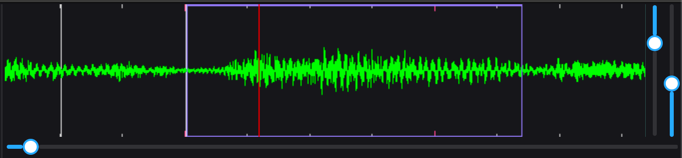
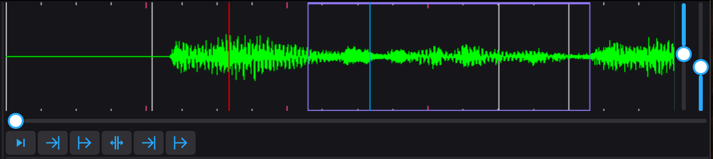
Update UI Help with new Audio Area

Changed region(s): [[0.0, 0.0, 1.0, 1.0]]

diff --git a/Ameko/Assets/Help/en-US/user-interface.md b/Ameko/Assets/Help/en-US/user-interface.md
@@ -118,17 +118,26 @@ Right-click on the video to open the context menu.
 
 ![](../assets/audio-area.png)
 
-The audio area displays an audio visualization, keyframes, and event start/end times. The visualization does not scroll
-automatically with the video, but it will move to the start of the selected line if a seek (auto or manual) is
-performed.
+The audio area displays an audio visualization. The visualization does not scroll automatically with the video, but it
+will move to the start of the selected line if a seek (auto or manual) is performed.
 
-At the bottom is a seekbar, and to the right are controls for horizontal and vertical scale. The visualization contains
-the following information:
+Below the visualization is a seekbar and controls, and to the right are controls for horizontal and vertical scale. The
+visualization contains the following information:
 
 - Keyframes, indicated by a gray line.
 - Seconds and Quarter-seconds, indicated by short red ticks and shorter gray ticks at the top and bottom.
 - Current video frame, indicated by a red line.
+- Current audio position, indicated by a blue line (only displayed while audio is playing).
 - Subtitle lines, indicated by a purple box starting at the line's start time and ending at the line's end time.
+
+The audio playback controls, in order:
+
+- Play Active Event: Plays from the Start time to the End time. Also doubles as a pause button.
+- Play Before: Plays 500ms before the Start time of the active event.
+- Play First: Plays the first 500ms of the active event.
+- Play Surrounding: Plays the duration of the active event, plus 500ms before the Start time and after the End time.
+- Play Last: Plays the last 500ms of the active event.
+- Play After: Plays 500ms after the End time of the active event.
 
 ## Tabs
 
